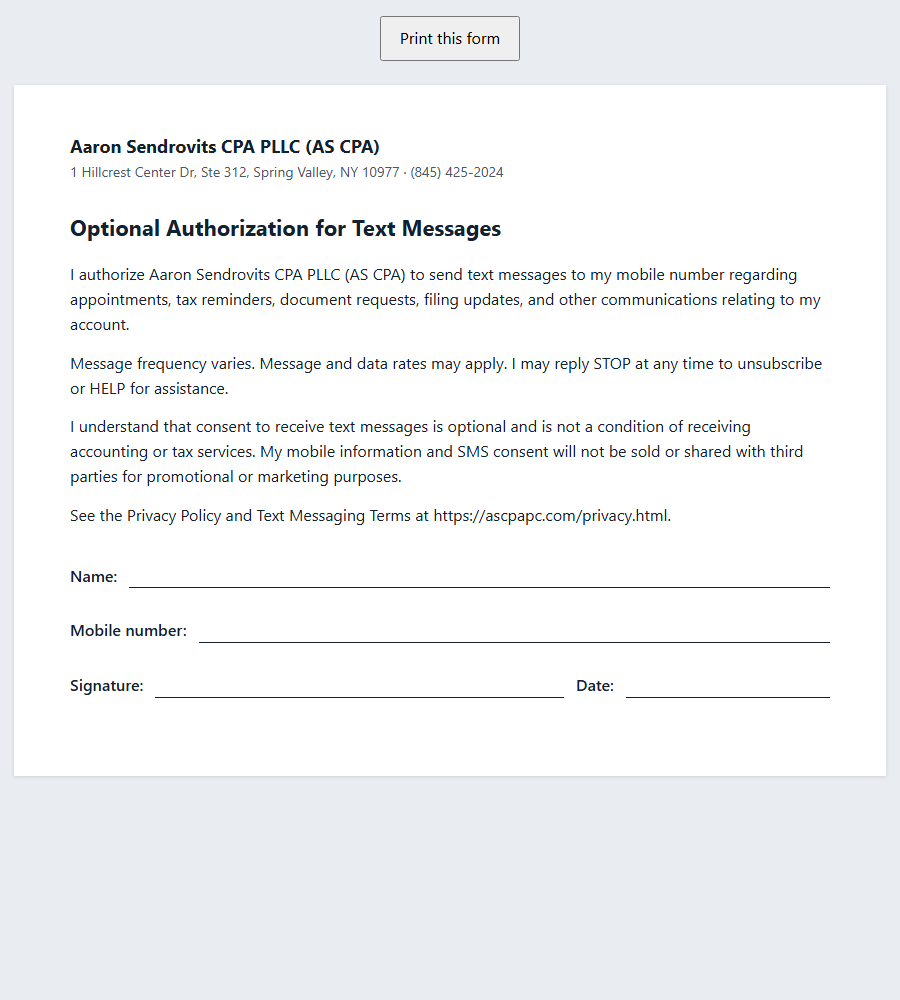
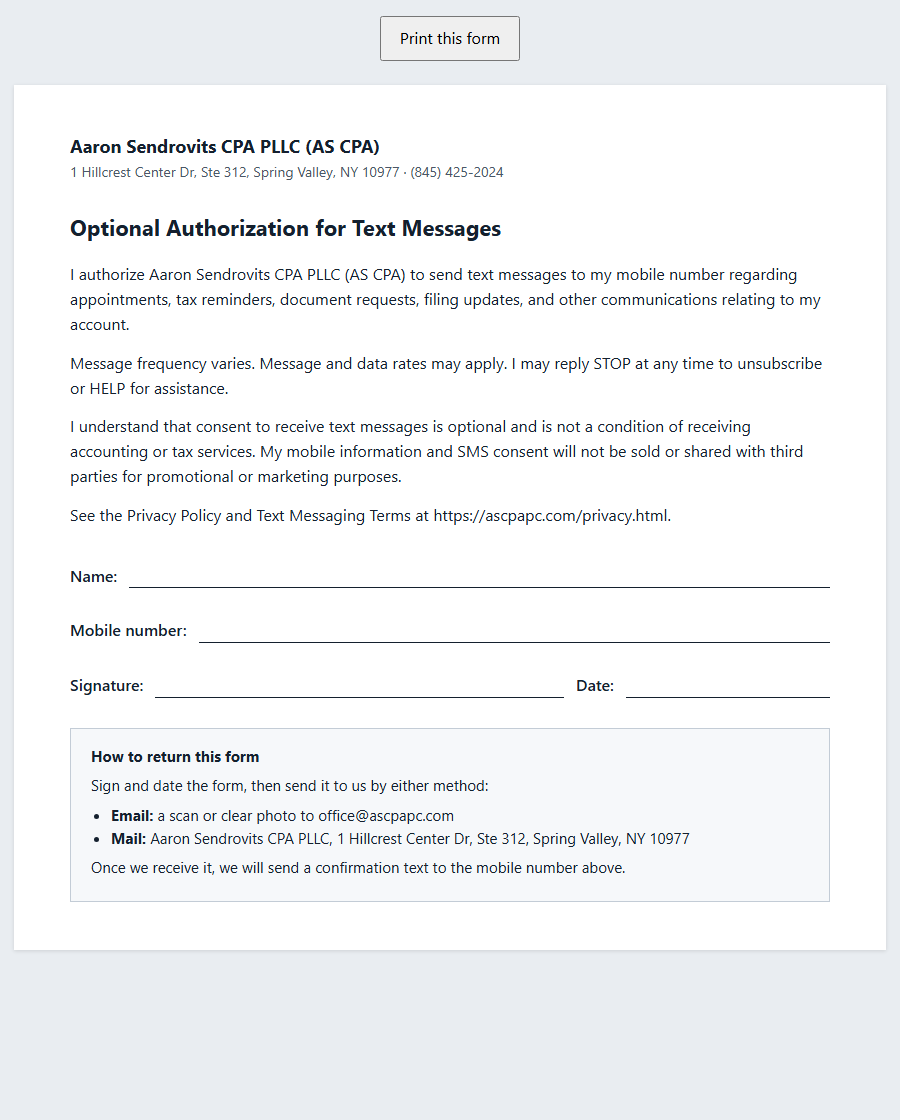
SMS authorization: add email/mail return instructions
Form, Text Messaging Information page and SMS terms now tell clients how to
send the signed authorization back (email office@ascpapc.com or mail to the
office). Screenshot refreshed.

diff --git a/sms-authorization.html b/sms-authorization.html
@@ -17,6 +17,9 @@
 	.field { display: flex; align-items: flex-end; gap: 12px; margin-bottom: 30px; }
 	.field span { white-space: nowrap; font-weight: 600; }
 	.field i { flex: 1; border-bottom: 1px solid #14202e; height: 1.2em; }
+	.return { margin-top: 8px; padding: 16px 20px; border: 1px solid #c3ccd6; background: #f6f8fa; font-size: 15px; }
+	.return p { margin: 6px 0; }
+	.return ul { margin: 6px 0; padding-left: 20px; }
 	.print { text-align: center; margin: 16px; }
 	.print button { font: inherit; padding: 8px 18px; cursor: pointer; }
 	@media print { body { background: #fff; } .sheet { box-shadow: none; margin: 0; padding: 0; } .print { display: none; } }
@@ -36,6 +39,15 @@
 		<div class="field"><span>Name:</span><i></i></div>
 		<div class="field"><span>Mobile number:</span><i></i></div>
 		<div class="field"><span>Signature:</span><i></i><span>Date:</span><i style="flex:.5"></i></div>
+	</div>
+	<div class="return">
+		<strong>How to return this form</strong>
+		<p>Sign and date the form, then send it to us by either method:</p>
+		<ul>
+			<li><b>Email:</b> a scan or clear photo to office@ascpapc.com</li>
+			<li><b>Mail:</b> Aaron Sendrovits CPA PLLC, 1 Hillcrest Center Dr, Ste 312, Spring Valley, NY 10977</li>
+		</ul>
+		<p>Once we receive it, we will send a confirmation text to the mobile number above.</p>
 	</div>
 </div>
 </body>

diff --git a/privacy.html b/privacy.html
@@ -50,7 +50,7 @@
 		<h3>Consent methods</h3>
 		<p>Clients may consent verbally during a telephone conversation or in person, or by signing a separate <a href="sms-authorization.html">SMS consent authorization</a>.</p>
 		<p>For verbal enrollment, an AS CPA representative confirms the client's permission and records the mobile number, date, time, consent method, and staff member responsible for enrollment. Telephone calls do not need to be recorded.</p>
-		<p>For signed enrollment, AS CPA retains a copy of the signed authorization.</p>
+		<p>For signed enrollment, the client returns the signed authorization by email (a scan or clear photo) to <a href="mailto:office@ascpapc.com">office@ascpapc.com</a>, or by mail to Aaron Sendrovits CPA PLLC, 1 Hillcrest Center Dr, Ste 312, Spring Valley, NY 10977. AS CPA retains a copy of the signed authorization.</p>
 		<p>After enrollment, AS CPA sends an automatic confirmation text identifying the messaging program and explaining how to opt out or obtain assistance. No reply to this confirmation is required.</p>
 
 		<h3>Types of messages</h3>

diff --git a/text-consent.html b/text-consent.html
@@ -31,6 +31,7 @@
 
 		<h2>How to sign up</h2>
 		<p>Clients may request text messaging by calling our office at <a href="tel:+18454252024">(845) 425-2024</a>, speaking with a staff member in person, or signing a separate <a href="sms-authorization.html">SMS consent authorization</a>.</p>
+		<p>To use the written authorization, print it, sign and date it, and send it to us by email (a scan or clear photo) to <a href="mailto:office@ascpapc.com">office@ascpapc.com</a>, or by mail to Aaron Sendrovits CPA PLLC, 1 Hillcrest Center Dr, Ste 312, Spring Valley, NY 10977.</p>
 		<p>After you provide consent, you will receive a confirmation text. No reply is required to complete your enrollment.</p>
 
 		<h2>Message frequency and charges</h2>
